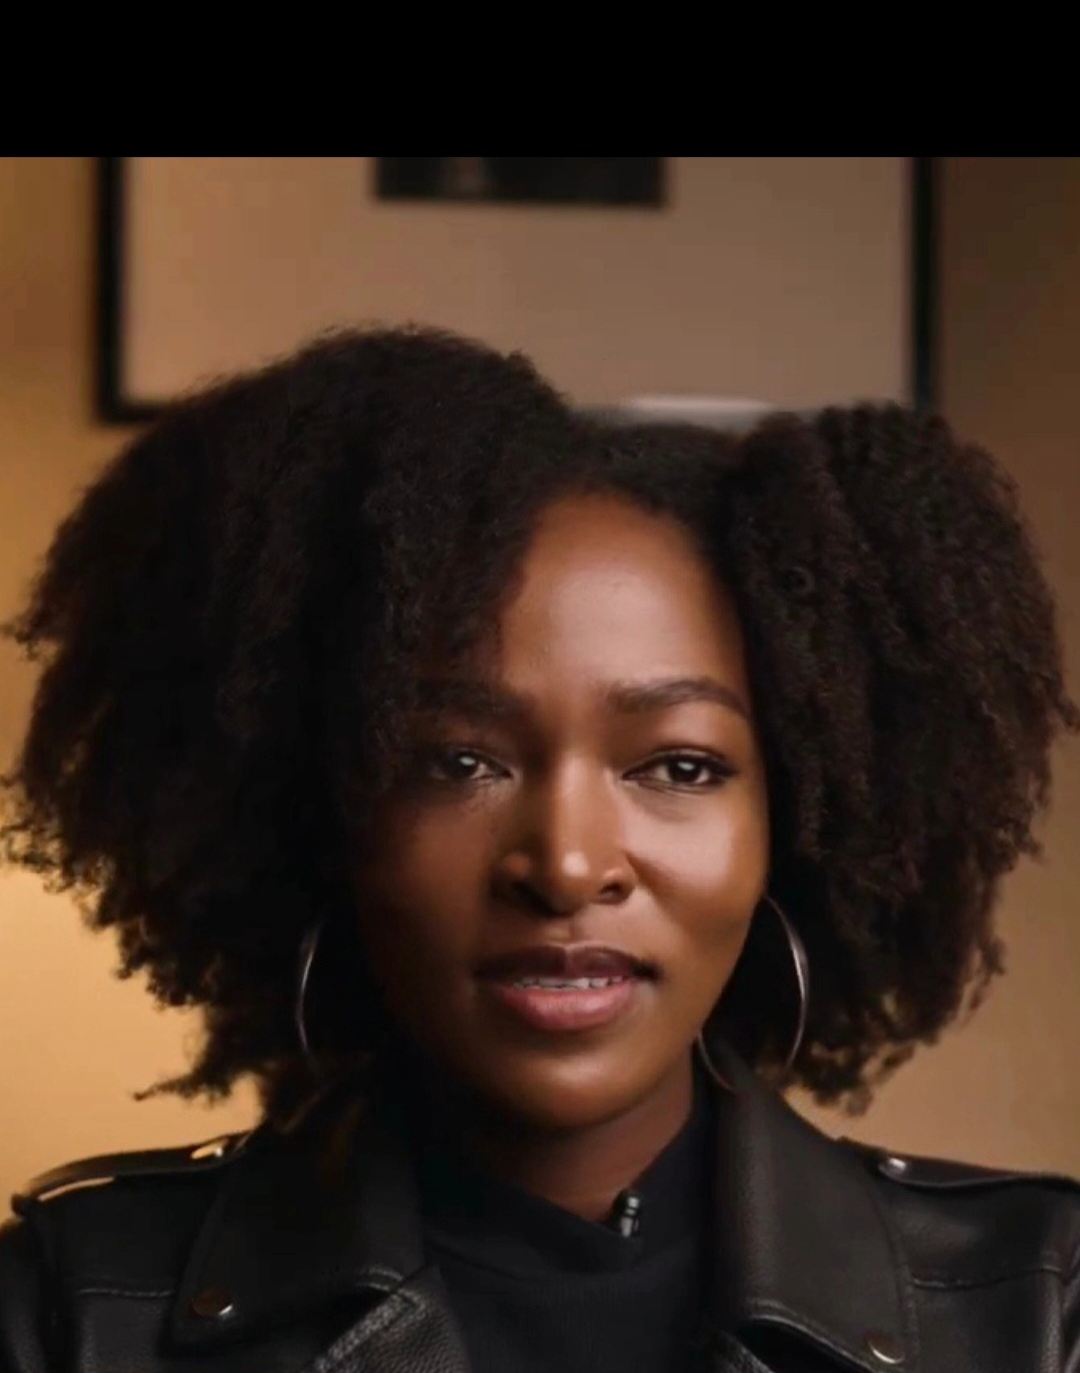
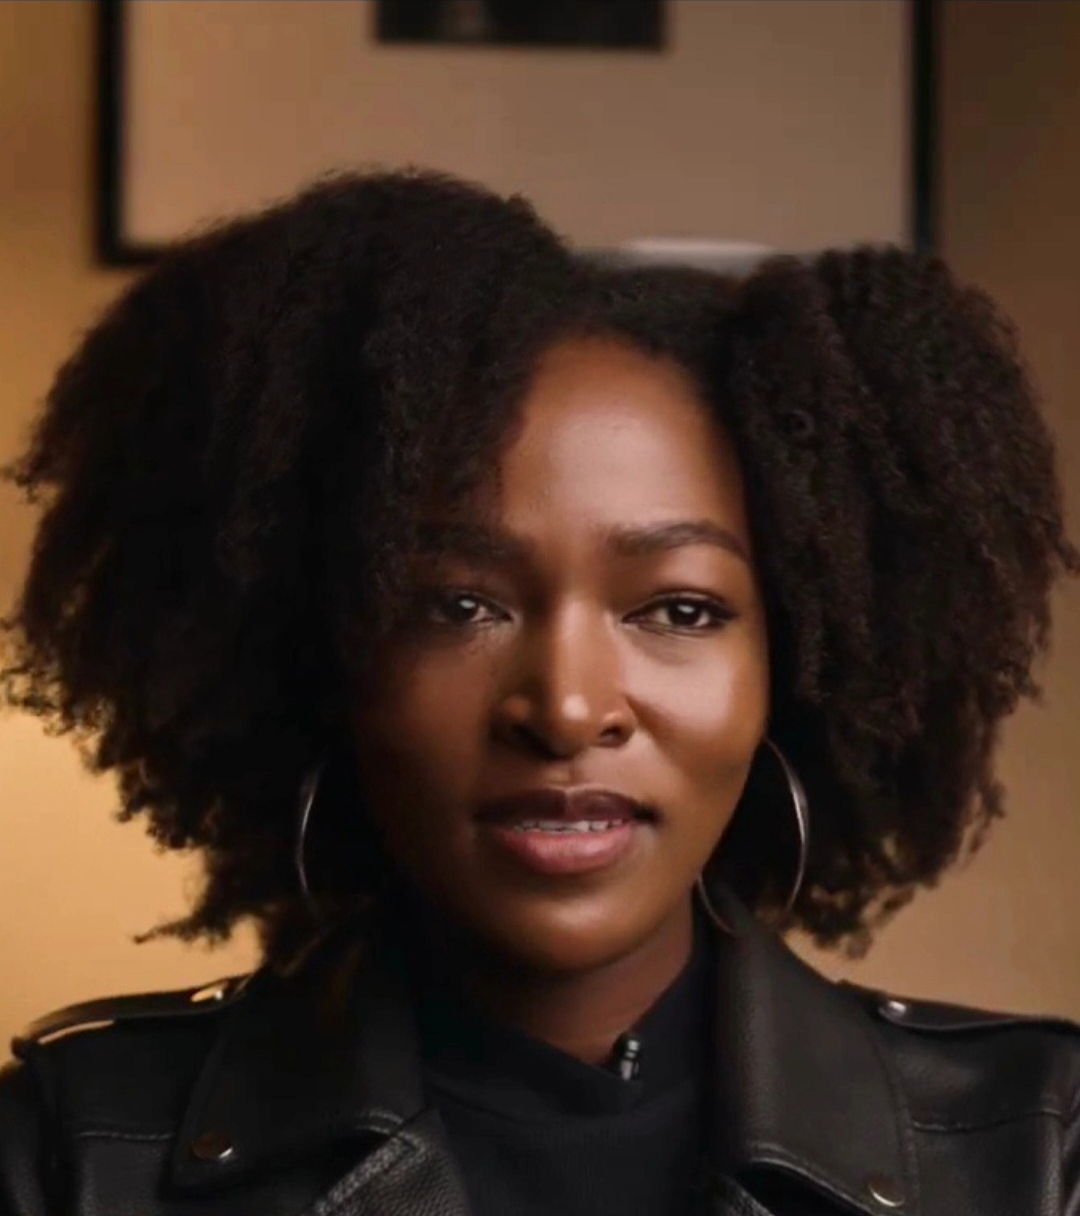
fix(website): remove black bar from founder photo via pixel-accurate crop
Scanned the image pixel-by-pixel and detected the solid black area
occupying exactly the top 157px of dorine.png (1080x1373). Cropped it
out using Pillow, producing a clean 1080x1216 image that starts at the
actual photo content.

Reverted the CSS height constraint and object-fit hacks introduced in
the previous commit — the avatar now renders the full image naturally
with width:100% / height:auto, no cropping needed at the browser level.

diff --git a/index.html b/index.html
@@ -237,8 +237,8 @@
     .founder { background: var(--deep); border-top: 1px solid var(--rim); border-bottom: 1px solid var(--rim); }
     .founder-inner { display: grid; gap: 40px; margin-top: 52px; }
     .founder-card { background: var(--panel); border: 1px solid var(--rim); border-radius: var(--r-lg); padding: 36px; }
-    .founder-avatar { border-radius: var(--r-md); overflow: hidden; margin-bottom: 24px; border: 1px solid rgba(232,24,109,.3); box-shadow: 0 0 0 3px rgba(0,201,167,.1), var(--shadow); height: 300px; }
-    .founder-avatar img { width: 100%; height: 100%; object-fit: cover; object-position: 50% 18%; display: block; }
+    .founder-avatar { border-radius: var(--r-md); overflow: hidden; margin-bottom: 24px; border: 1px solid rgba(232,24,109,.3); box-shadow: 0 0 0 3px rgba(0,201,167,.1), var(--shadow); }
+    .founder-avatar img { width: 100%; height: auto; display: block; }
     .founder-name { font-family: var(--serif); font-size: clamp(26px,3vw,38px); letter-spacing: -0.02em; line-height: 1.1; }
     .founder-role-row { display: flex; align-items: center; gap: 10px; margin-top: 8px; }
     .founder-role { font-size: 13px; font-weight: 600; letter-spacing: .08em; text-transform: uppercase; color: var(--teal); }
